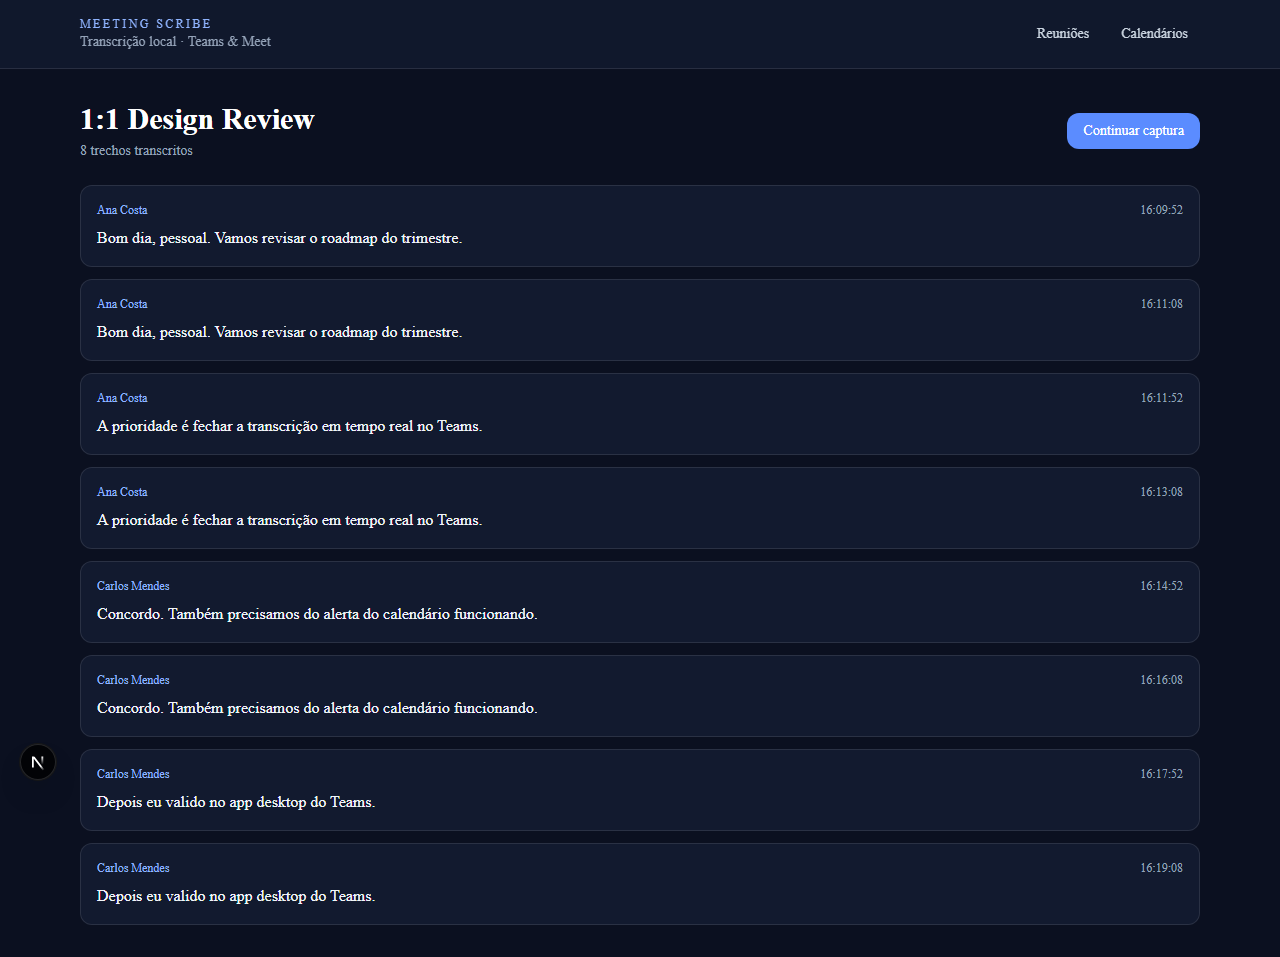
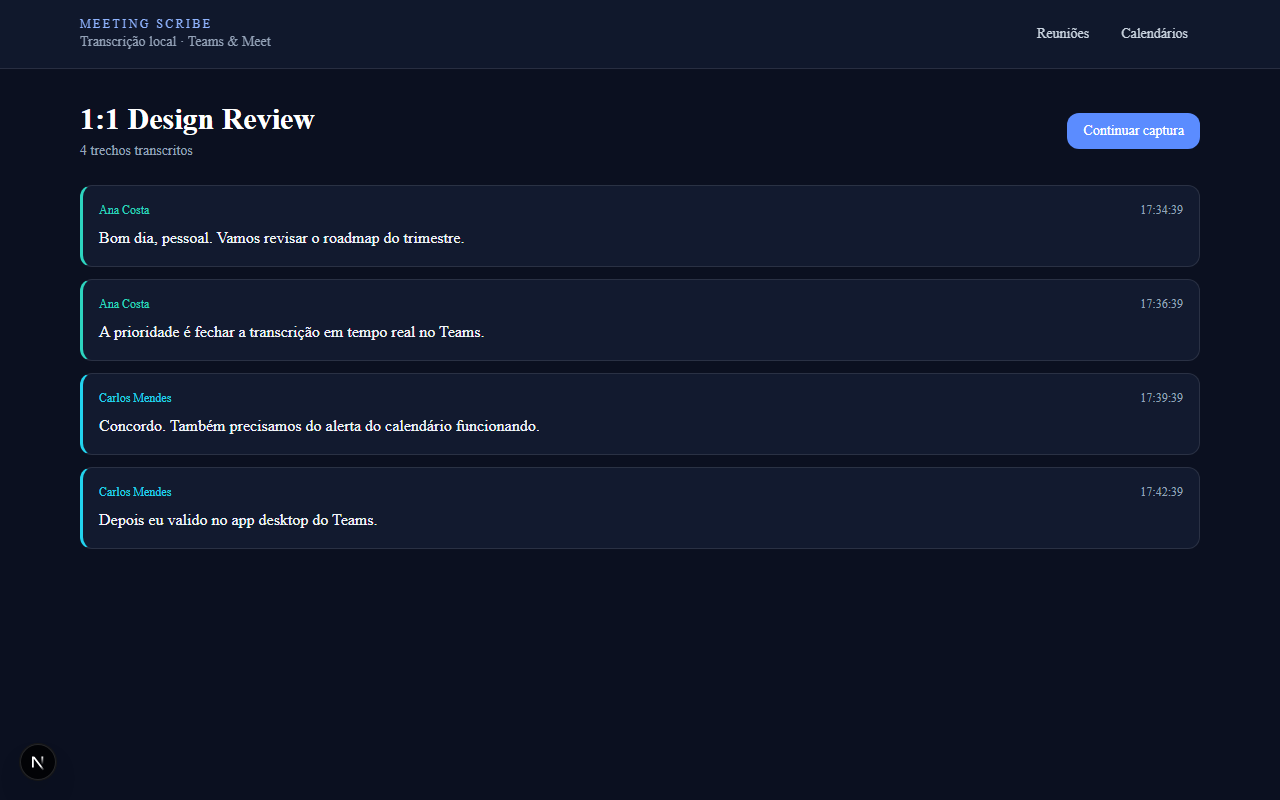
docs: regenerar screenshots e alinhar textos das funcionalidades
Atualiza prints 01–06 (agendar, alerta Participar e transcrever, captura mic/aba) e o script Playwright.

diff --git a/README.md b/README.md
@@ -6,37 +6,37 @@ Transcrição em tempo real de reuniões (Meet / Teams) — **só rode o projeto
 
 ### Lista de reuniões
 
-Dashboard com status (SCHEDULED / LIVE / COMPLETED), plataforma (Teams ou Meet) e quantidade de trechos. Cada sessão pode ser aberta para ver a transcrição completa.
+Dashboard com status (`SCHEDULED` / `AWAITING_JOIN` / `LIVE` / `COMPLETED`), plataforma (Teams ou Meet) e quantidade de trechos. Cada sessão abre a transcrição completa.
 
 ![Lista de reuniões](docs/screenshots/01-reunioes.png)
 
-### Alerta ao detectar reunião
+### Alerta ao iniciar
 
-Quando o calendário indica que uma reunião está para começar, o app pede para participar com transcrição — incluindo abrir no **Teams desktop** (`msteams://`).
+Perto do horário agendado (calendário ou manual), o app pede **Participar e transcrever** — abre o link Meet/Teams e a tela de captura.
 
 ![Alerta de reunião detectada](docs/screenshots/06-alerta-reuniao.png)
 
-### Nova reunião manual
+### Agendar reunião (horário + link)
 
-Crie uma sessão na hora (sem calendário): título, horário e link Meet/Teams opcional.
+Informe título, início e **link obrigatório** Meet/Teams. Na hora o Meeting Scribe avisa — deixe a aba aberta.
 
-![Nova reunião manual](docs/screenshots/02-nova-reuniao.png)
+![Agendar reunião](docs/screenshots/02-nova-reuniao.png)
 
-### Calendários (ICS sem OAuth)
+### Calendários (ICS e OAuth)
 
-Cole o endereço secreto iCal do Google/Outlook. OAuth Google/Microsoft continua disponível se você preencher o `.env`.
+Cole o endereço secreto iCal do Google/Outlook, ou conecte Google/Microsoft (Client ID gratuito). Ver [`docs/oauth-setup-gratis.md`](docs/oauth-setup-gratis.md).
 
-![Configuração de calendários ICS](docs/screenshots/03-calendarios.png)
+![Configuração de calendários](docs/screenshots/03-calendarios.png)
 
 ### Transcrição por falante
 
-Trechos salvos com **nome do falante** (cada um com cor distinta), horário e texto — organizados por reunião.
+Trechos com **nome colorido por participante**, horário e texto.
 
 ![Transcrição com falantes](docs/screenshots/04-transcricao.png)
 
 ### Captura ao vivo
 
-Compartilhe a **aba** do Meet/Teams com áudio; o sistema envia chunks ao backend e exibe a transcrição em tempo real.
+**Áudio da aba** (Meet/Teams no Chrome com “Compartilhar áudio”) ou **Testar com microfone**. Whisper local processa a cada ~5s.
 
 ![Captura ao vivo](docs/screenshots/05-captura-ao-vivo.png)
 

diff --git a/docs/README.md b/docs/README.md
@@ -14,10 +14,14 @@
 
 ### Regenerar prints
 
+Com `npm run dev` no ar:
+
 ```powershell
-npm run dev:backend
-npm run dev:frontend
-node scripts/capture-screenshots.cjs <meetingIdLive> <meetingIdScheduled>
+# 1) Crie/use uma reunião LIVE e rode o seed de trechos demo
+node scripts/seed-demo-transcript.cjs <meetingIdLive>
+
+# 2) Capture (Playwright)
+node scripts/capture-screenshots.cjs <meetingIdLive> <meetingIdScheduled?>
 ```
 
-Processo obrigatório: skill `.cursor/skills/keep-docs-in-sync/SKILL.md`.
+Gera `01`…`06` em [screenshots/](screenshots/). Atualize também o texto de “Interface e funcionalidades” no README raiz.
